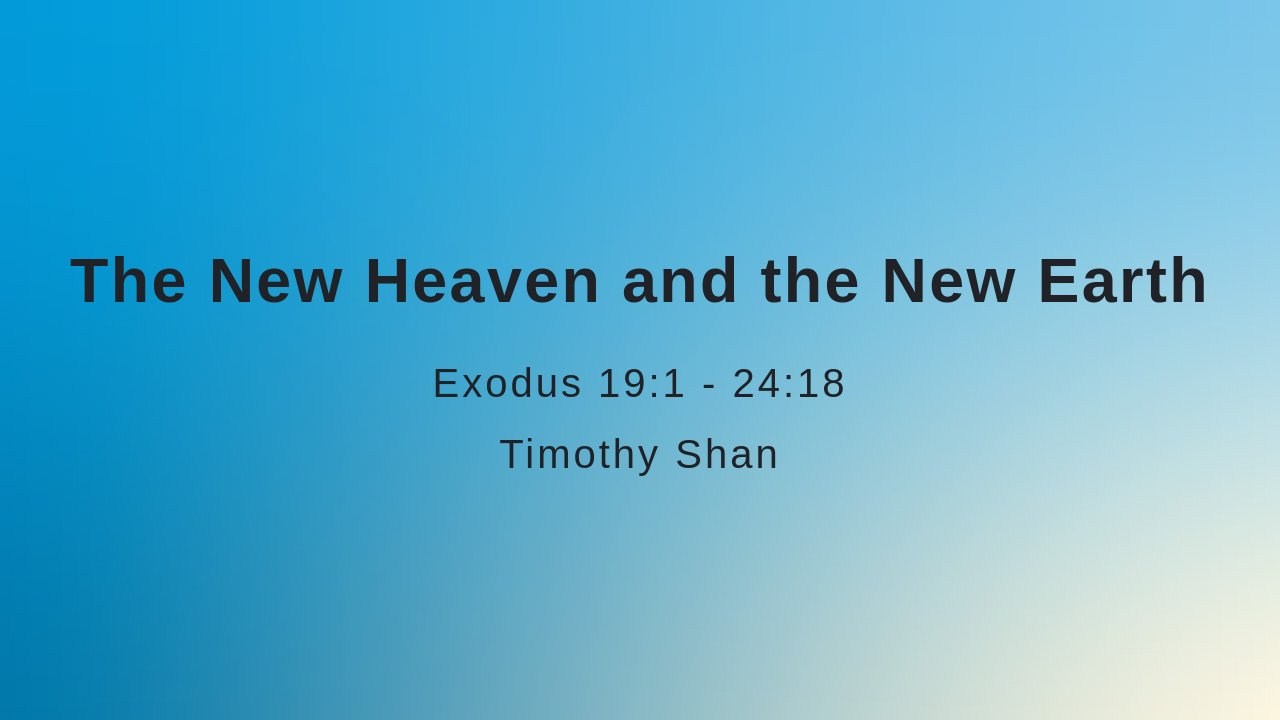
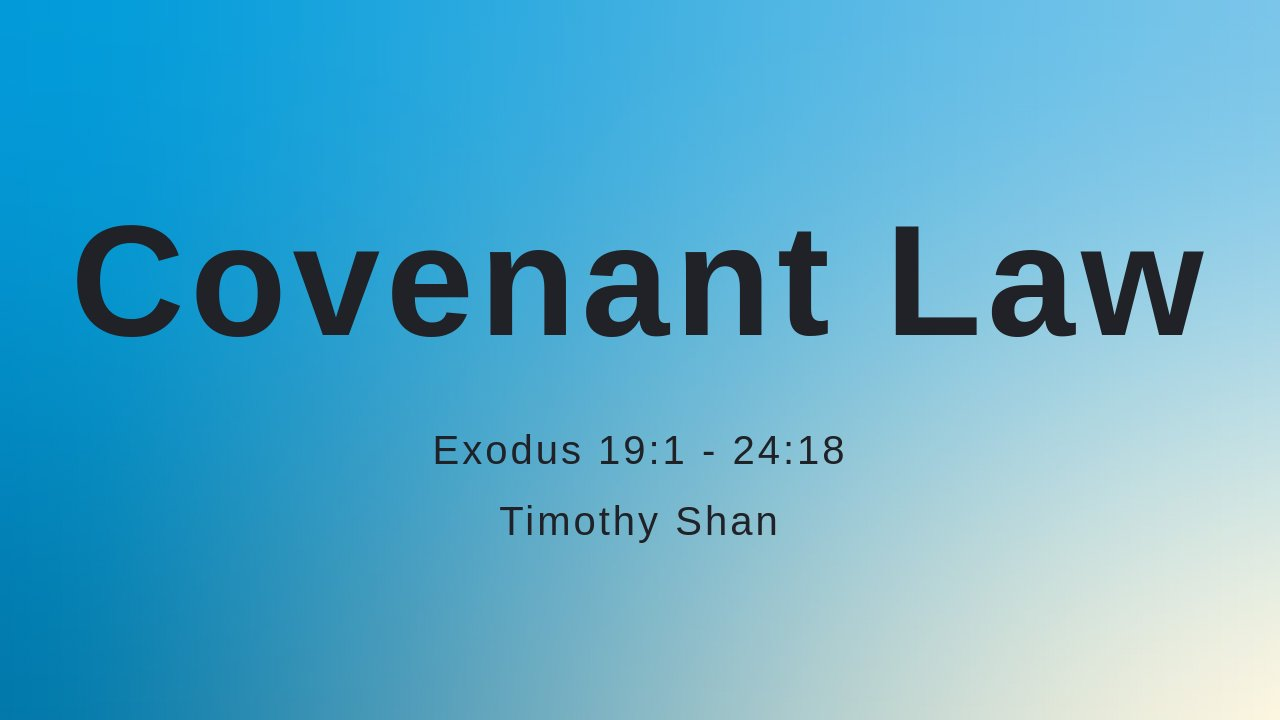
Deploying to gh-pages from  @ 7bb67f33cb98287d4ffc6e78bc638318c4d353f1 🚀

Changed region(s): [[0.0312, 0.3056, 0.9375, 0.55], [0.3125, 0.5806, 0.6562, 0.6722], [0.375, 0.7028, 0.625, 0.7639]]

diff --git a/index.html b/index.html
@@ -9,7 +9,7 @@
  * @size 16:9 1280px 720px
  * @size 4:3 960px 720px
[1 lines of base64/hex data omitted]
-<h1 is="marp-h1" data-auto-scaling> The New Heaven and the New Earth</h1>
+<h1 is="marp-h1" data-auto-scaling> Covenant Law</h1>
 <p>Exodus 19:1 - 24:18</p>
 <p>Timothy Shan</p>
 </section>
